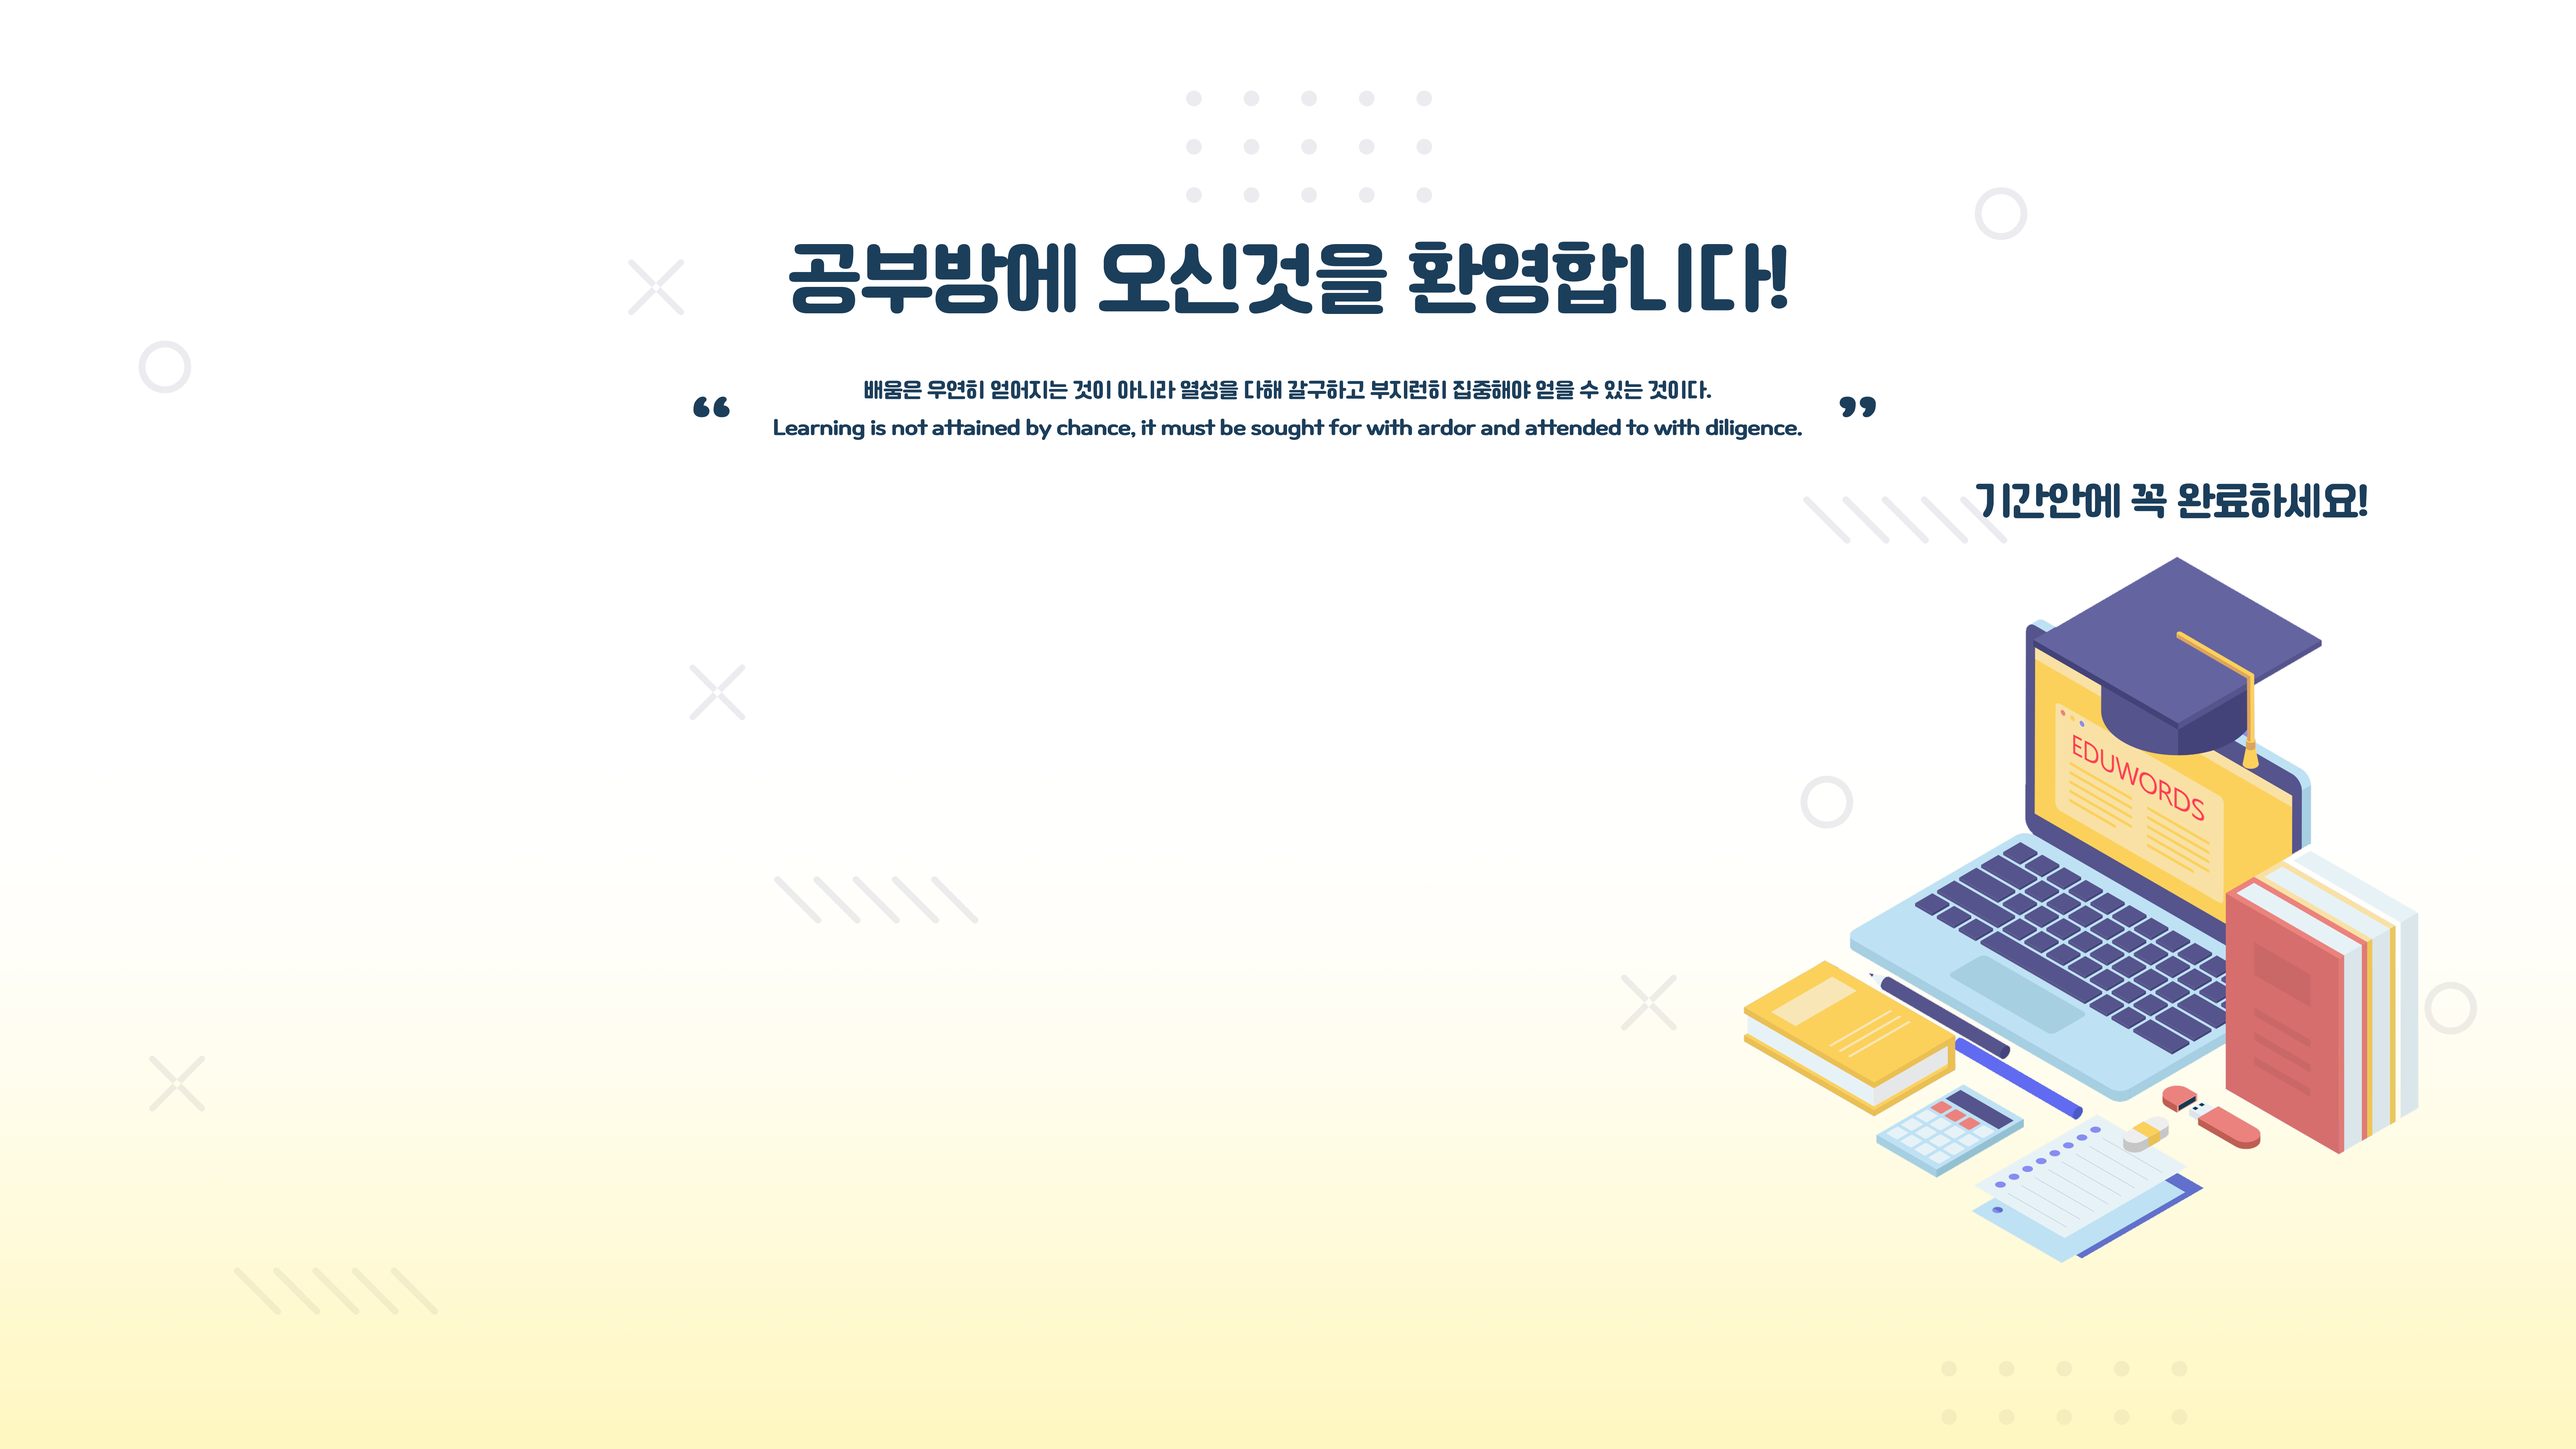
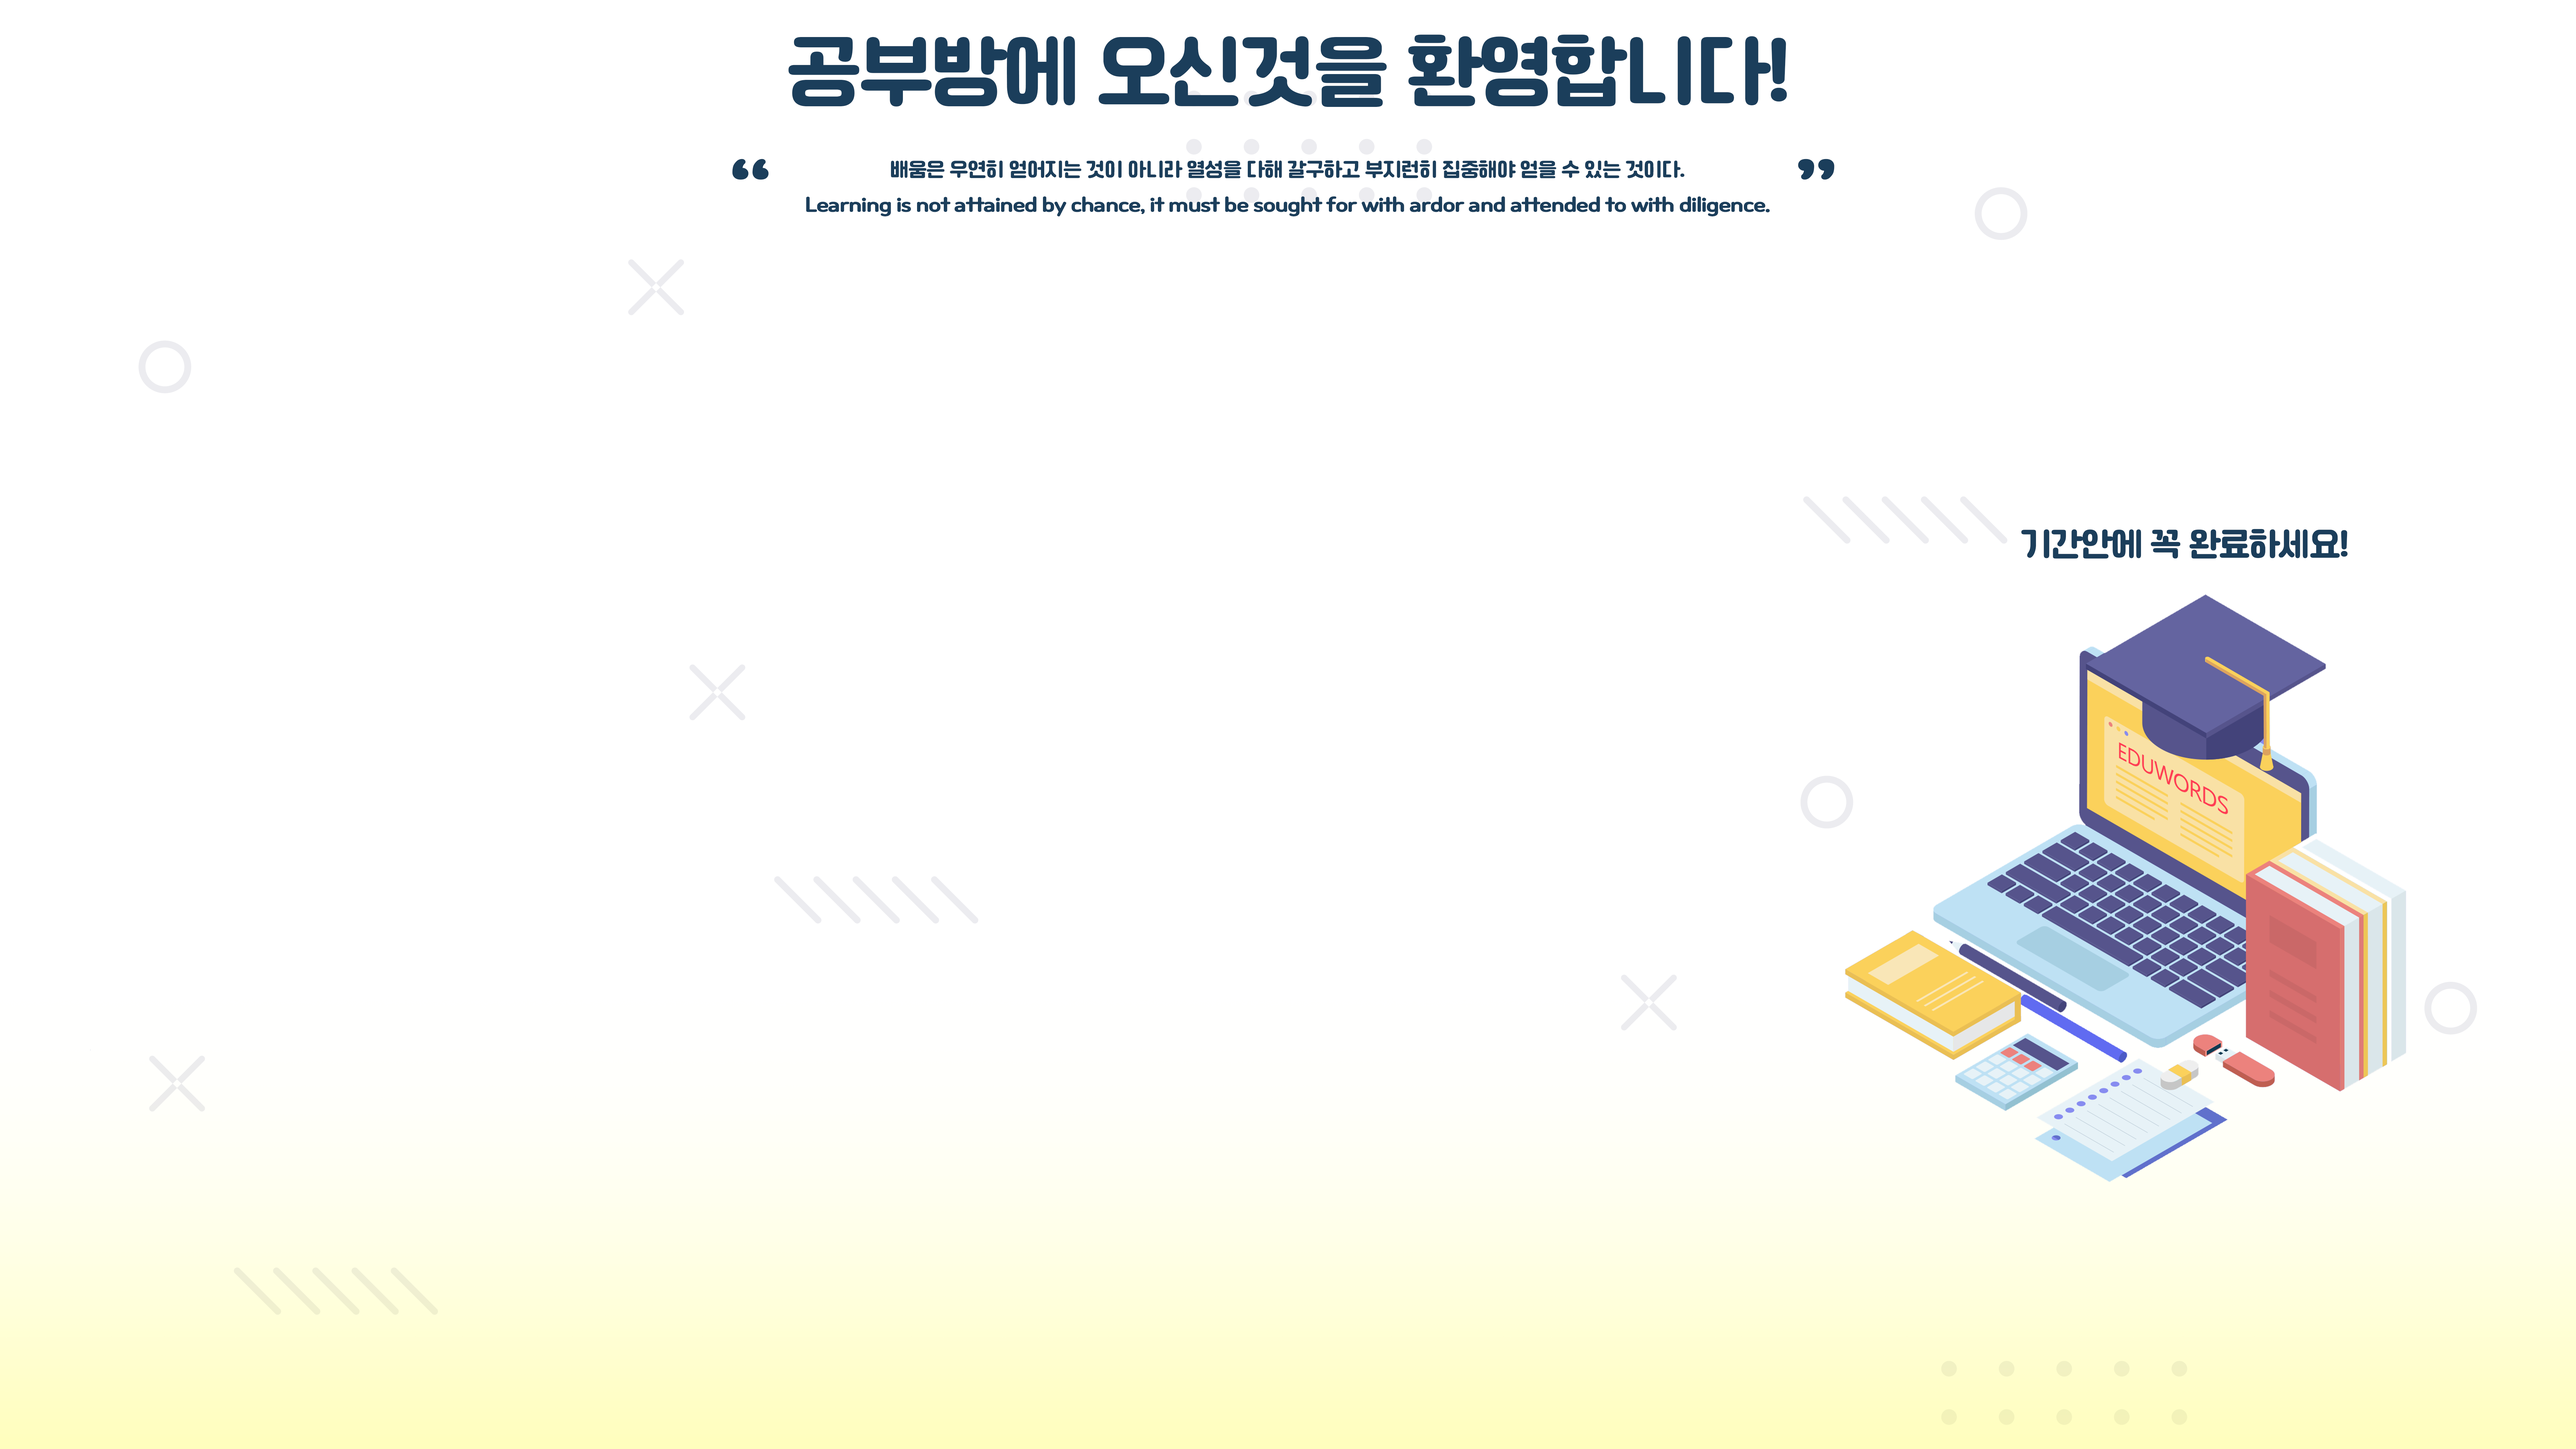
1124
hn

diff --git a/eduwords/eduwords/src/studyroom.js b/eduwords/eduwords/src/studyroom.js
@@ -1,9 +1,9 @@
 import React, { useState, useEffect } from "react";
-import tb from "../src/img/tb.png";
+import sb from "../src/img/sb.png";
 import Navbar from "./Component/Navbar";
-import "../src/questionslist.css";
+import "../src/studyroom.css";
 
-const QuestionsList = () => {
+const StudyRoom = () => {
   const [data, setData] = useState([]);
 
   useEffect(() => {
@@ -68,11 +68,11 @@ const QuestionsList = () => {
           </tr>
         </tbody>
       </table>
-      <div className="tb-bg">
-        <img src={tb} className="tbimg"></img>
+      <div className="sb-bg">
+        <img src={sb} className="sbimg"></img>
       </div>
     </div>
   );
 };
 
-export default QuestionsList;
+export default StudyRoom;

diff --git a/eduwords/eduwords/src/index.js b/eduwords/eduwords/src/index.js
@@ -12,6 +12,7 @@ import Find from "./find";
 import Createai from "./createai";
 import Questionsok from "./questionsok";
 import Questionslist from "./questionslist";
+import StudyRoom from "./studyroom";
 
 const root = ReactDOM.createRoot(document.getElementById("root"));
 root.render(
@@ -28,6 +29,7 @@ root.render(
         <Route path="/createai" element={<Createai />} />
         <Route path="/questionsok" element={<Questionsok />} />
         <Route path="/questionslist" element={<Questionslist />} />
+        <Route path="/studyRoom" element={<StudyRoom />} />
       </Routes>
     </Router>
   </React.StrictMode>

diff --git a/eduwords/eduwords/src/studyroom.css b/eduwords/eduwords/src/studyroom.css
@@ -1,18 +1,18 @@
-.tbimg {
+.sbimg {
   width: 100%;
   height: 100%;
+  background-attachment: fixed;
   z-index: -1; /* 다른 요소보다 뒤에 나타나도록 설정 */
 }
 
 .listtable {
-  margin-top: 5%; /* 여백 조절 */
-  margin-left: 5%;
+  margin-top: 10%; /* 여백 조절 */
   width: 50%;
   border-spacing: 0;
   border-radius: 10px;
   max-width: 700px;
   background-color: #1b3e5b;
-  position: relative; /* 배경 이미지에 영향을 받지 않도록 설정 */
+  position: relative; /* sbimg의 z-index에 영향을 받지 않도록 설정 */
 }
 
 .listtable td {
